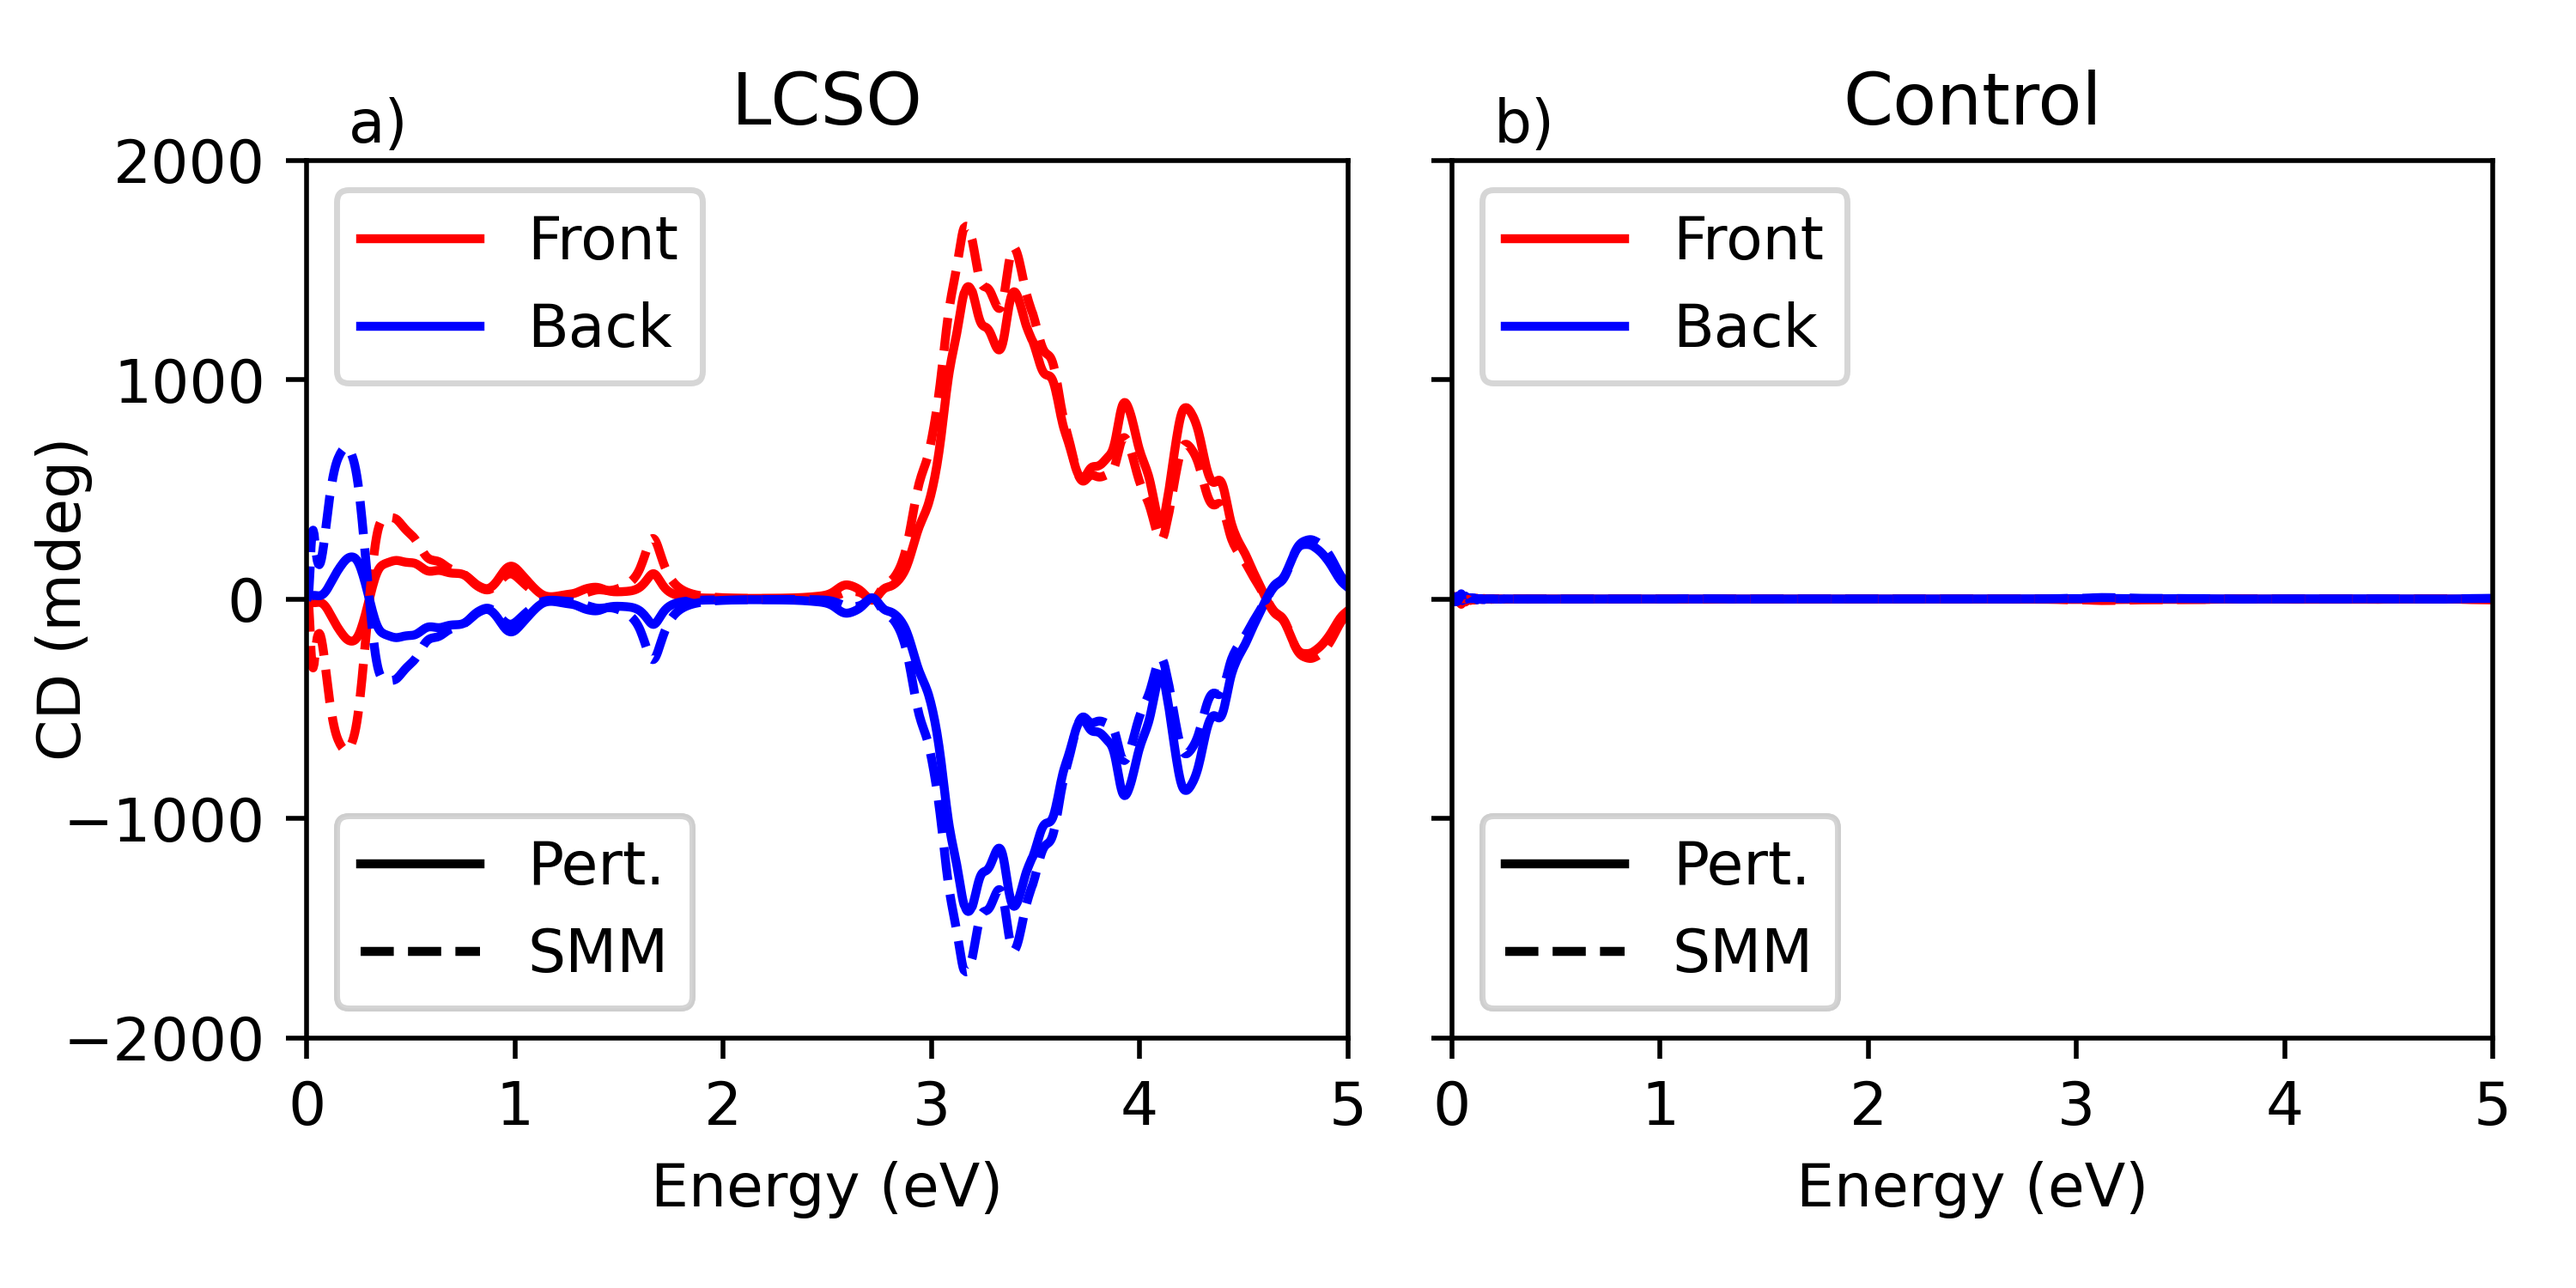
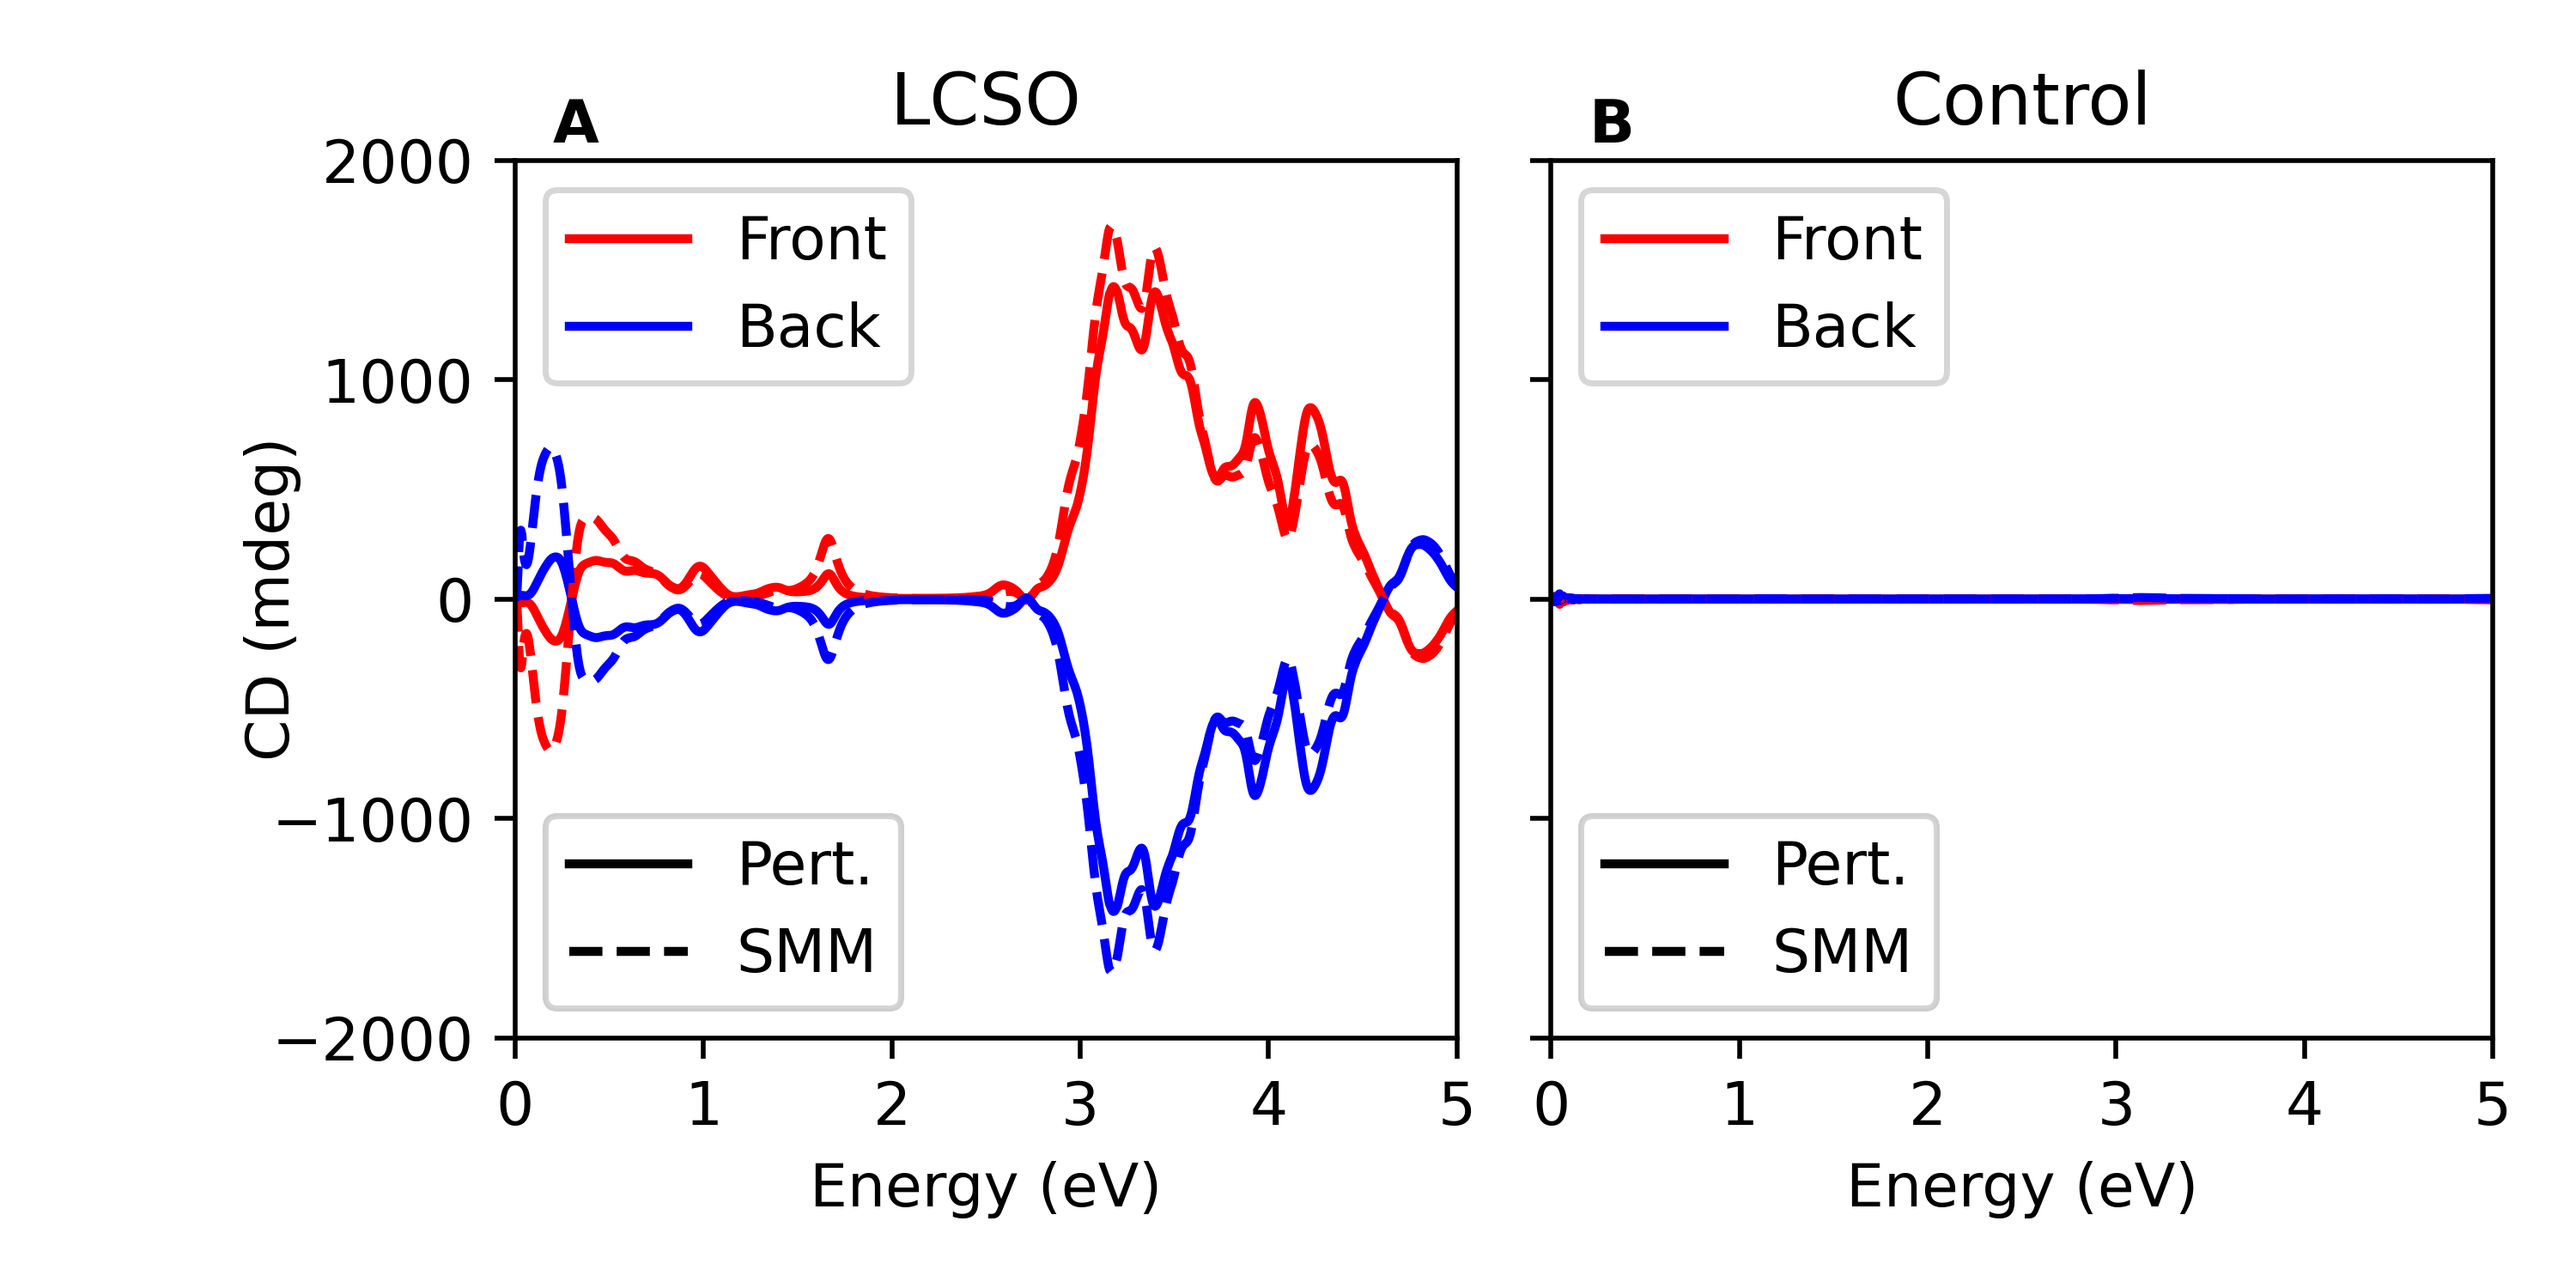
subtitles Science style
subtitles for relevant figures are now capitals

diff --git a/Figures/figure_lrc_xyz_comparison_exp_comparison.py b/Figures/figure_lrc_xyz_comparison_exp_comparison.py
@@ -7,7 +7,7 @@ import os
 import setup
 '''Figure for ACD in inorganics paper--comparison polarization via  ALDA and ALDA+LRC '''
 
-plot_abs = True
+plot_abs = False
 filepath = os.sep.join((setup.BASE_DIR,"Data\Raw_Data\TDDFT\ALDA_PBEsol"))
 pol_str_list = ["_X","_Y","_Z"]
 
@@ -54,7 +54,7 @@ else:
     yps.plot_dielectric_polarization("",data_lrc_1,spec_lrc,figure = fig,ax = ax[2],**base_kwargs)
     yps.plot_dielectric_polarization("",data_lrc_1pt5,spec_lrc,figure = fig,ax = ax[3],**base_kwargs)
 
-subtitles = ["a","b","c","d"]
+subtitles = ["A","B","C","D"]
 
 for i in range(np.size(ax)):
     cur_axis = ax[i]
@@ -62,7 +62,7 @@ for i in range(np.size(ax)):
         cur_axis.set_ylim(0,2e1)
     else:
         cur_axis.set_ylim(0,25)
-    cur_axis.text(.04,.93,subtitles[i],transform = cur_axis.transAxes,weight=  "bold")
+    cur_axis.text(.04,.93,subtitles[i],transform = cur_axis.transAxes,fontsize= 10, weight=  "bold")
 if (plot_abs):
     ax[0].set_ylabel(r"$\alpha (\text{eV}\hbar^{-1}c^{-1})$")
 else:

diff --git a/Figures/figure_lrc_triple_comparison.py b/Figures/figure_lrc_triple_comparison.py
@@ -47,14 +47,14 @@ yps.plot_abs_coef_polarization("",abs_lrc_x,spec_lrc,figure=fig,ax=ax[0],**base_
 yps.plot_abs_coef_polarization("",abs_lrc_y,spec_lrc,figure=fig,ax=ax[1],**base_kwargs)
 yps.plot_abs_coef_polarization("",abs_lrc_z,spec_lrc,figure=fig,ax=ax[2],**base_kwargs)
 
-subtitles = ["a)","b)","c)"]
+subtitles = ["A","B","C"]
 
 for i in range(np.size(ax)):
     cur_axis = ax[i]
     cur_axis.set_xlim(0,6)
     cur_axis.set_ylim(-10,100)
     cur_axis.set_xlabel("Energy (eV)")
-    cur_axis.text(.04,.93,subtitles[i],transform = cur_axis.transAxes)
+    cur_axis.text(.04,.93,subtitles[i],transform = cur_axis.transAxes,fontsize= 10,weight = "bold")
 
 ax[0].set_ylabel(r"$\alpha$ ($\mu$m$^{-1}$)")
 #legends

diff --git a/Figures/figure_acd_li_na_control_comparison.py b/Figures/figure_acd_li_na_control_comparison.py
@@ -73,7 +73,7 @@ for i in range(2):
     axes[i].add_artist(legend_init)
 axes[0].set_ylabel("CD (mdeg)",labelpad=-5)
 for i in range(2):
-    axes[i].text(.04,1.02,["a)","b)"][i],transform = axes[i].transAxes)
+    axes[i].text(.04,1.02,["A","B"][i],transform = axes[i].transAxes,fontsize = 10,weight = "bold")
 plt.subplots_adjust(left= .2)
 fig.savefig("lcso_acd_li_control_comparison_100nm.png",dpi = 500)
 fig.show()

diff --git a/Figures/Thickness_Theory_Exp/plot_thickness_comparison.py b/Figures/Thickness_Theory_Exp/plot_thickness_comparison.py
@@ -38,9 +38,9 @@ ax[1].legend()
 
 
 
-sub_titles = ["a","b"]
+sub_titles = ["A","B"]
 for i in range(2):
-    ax[i].text(.01,.9,sub_titles[i],weight = "bold",transform = ax[i].transAxes)
+    ax[i].text(.01,.9,sub_titles[i],fontsize = 10,weight = "bold",transform = ax[i].transAxes)
 
 
 fig.subplots_adjust(hspace = 0)
